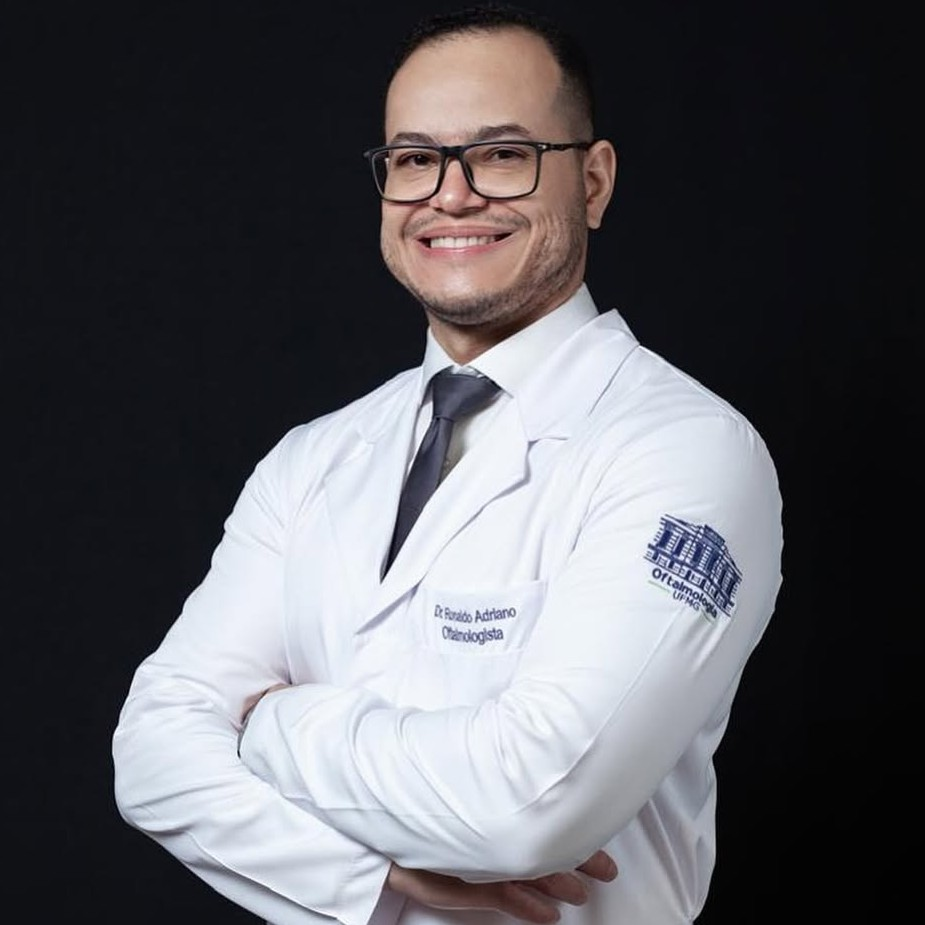
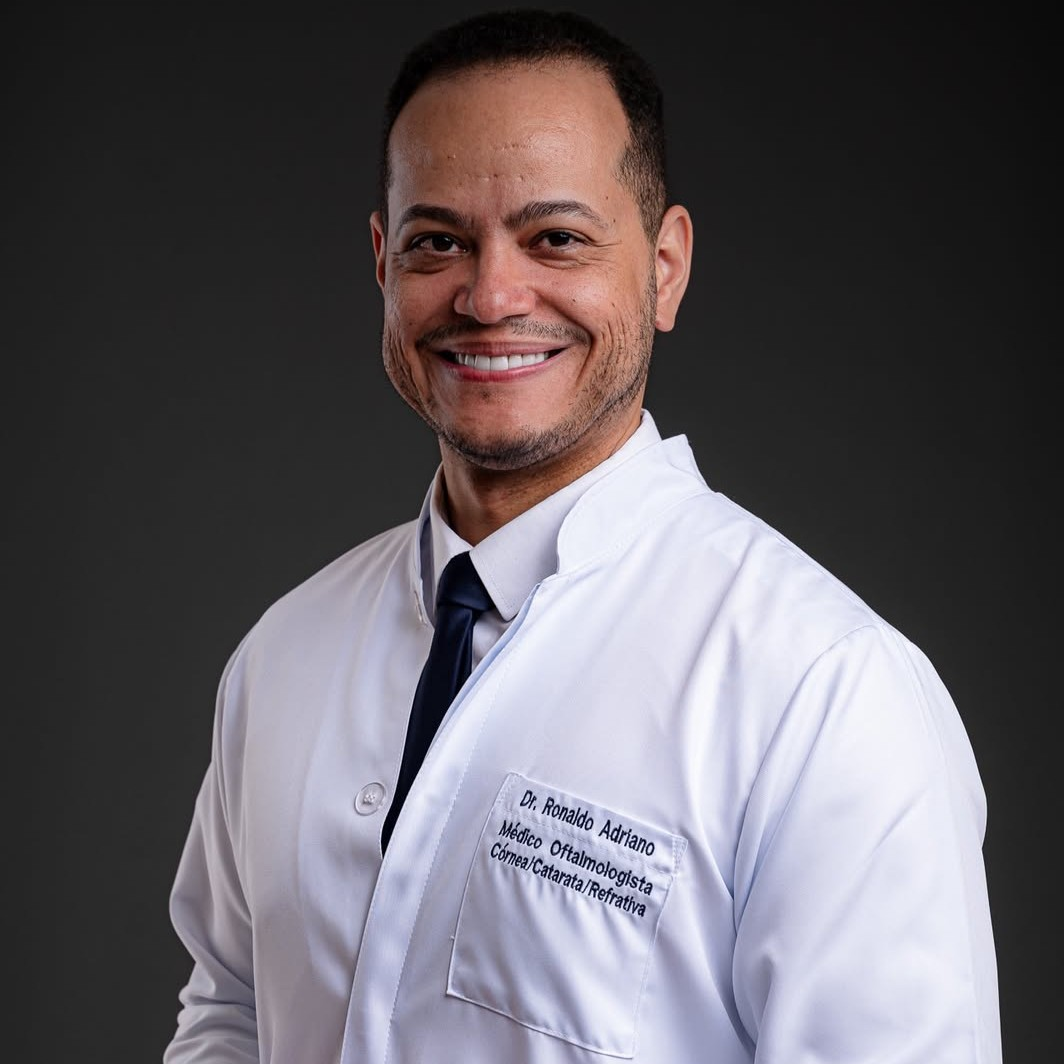
8 commit

diff --git a/index.html b/index.html
@@ -332,25 +332,40 @@
     /* ── CONVÊNIOS ── */
     .convenios-grid {
       display: grid;
-      grid-template-columns: repeat(6, 1fr);
-      gap: 16px;
-      margin-top: 40px;
+  grid-template-columns: repeat(4, 1fr);
+  gap: 20px;
+  margin-top: 40px;
     }
     @media (max-width: 900px) { .convenios-grid { grid-template-columns: repeat(2, 1fr); } }
     @media (max-width: 500px) { .convenios-grid { grid-template-columns: repeat(2, 1fr); } }
-    .convenio-card { width:150px;
-    height:150px;
+    .convenio-card {
+ border: 1px solid #e5e7eb;
+  border-radius: 12px;
+  padding: 16px 10px 10px;
+  display: flex;
+  flex-direction: column;
+  align-items: center;
+  justify-content: center;
+  gap: 12px;
+  transition: all .25s;
+    aspect-ratio: 1 / 1;
 
-    border:1px solid #e5e7eb;
-    border-radius:12px;
+}
 
-    padding:10px;
+ .convenio-label {
+  background: #0a1628;
+  border: 1px solid rgba(255, 255, 255, 0.1);
+  border-radius: 100px;
+  padding: 5px 14px;
+  color: #ffffff !important;
+  font-size: 14px;
+  font-weight: 500;
+  text-align: center;
+  white-space: nowrap;
+  width: 100%;
+}
 
-    display:flex;
-    align-items:center;
-    justify-content:center;
-    }
-    .convenio-card:hover { border-color: var(--accent); box-shadow: var(--shadow); transform: translateY(-4px); }
+       .convenio-card:hover { border-color: var(--accent); box-shadow: var(--shadow); transform: translateY(-4px); }
     .convenio-card .conv-icon { font-size: 22px; }
     .payment-title{
     text-align:center;
@@ -361,9 +376,10 @@
     }
 
     .convenio-card img{
-    width:100%;
-    height:100%;
-    object-fit:contain;
+   width: 100%;
+  height: 70%;
+  object-fit: contain;
+  transition: transform .2s;
     }
 
     .convenio-card:hover img{
@@ -721,13 +737,13 @@
     <div class="section-divider reveal"></div>
     <div class="specs-grid">
       <div class="spec-card reveal"><div class="icon">👁</div><h3>Catarata</h3><p>Diagnóstico, acompanhamento e cirurgia de catarata com tecnologia avançada e alta segurança para o paciente.</p></div>
-      <div class="spec-card reveal"><div class="icon">🔴</div><h3>Retina</h3><p>Tratamento especializado de doenças da retina, incluindo retinopatia diabética, DMRI e descolamento de retina.</p></div>
-      <div class="spec-card reveal"><div class="icon">🔵</div><h3>Córnea</h3><p>Avaliação e tratamento das doenças da córnea, ceratocone, úlceras e transplantes de córnea.</p></div>
+      <div class="spec-card reveal"><div class="icon">👁</div><h3>Retina</h3><p>Tratamento especializado de doenças da retina, incluindo retinopatia diabética, DMRI e descolamento de retina.</p></div>
+      <div class="spec-card reveal"><div class="icon">👁</div><h3>Córnea</h3><p>Avaliação e tratamento das doenças da córnea, cirurgia refrativa, ceratocone, úlceras e transplantes de córnea.</p></div>
+      <div class="spec-card reveal"><div class="icon">👁</div><h3>Glaucoma</h3><p>Monitoramento, diagnóstico precoce e tratamento do glaucoma para preservar a saúde do nervo óptico.</p></div>
       <div class="spec-card reveal"><div class="icon">🩺</div><h3>Consulta Oftalmológica</h3><p>Avaliação completa da saúde ocular, correção visual, prescrição de óculos e lentes de contato para todas as idades.</p></div>
-      <div class="spec-card reveal"><div class="icon">🟢</div><h3>Glaucoma</h3><p>Monitoramento, diagnóstico precoce e tratamento do glaucoma para preservar a saúde do nervo óptico.</p></div>
       <div class="spec-card reveal">
         <div class="icon">📊</div><h3>Exames Especializados</h3><p>Exames diagnósticos de alta precisão para avaliação detalhada da saúde ocular.</p>
-        <ul class="sub-list"><li>Mapeamento de Retina</li><li>OCT (Tomografia de Coerência Óptica)</li><li>Topografia de Córnea</li><li>Campo Visual</li><li>Paquimetria e Biometria</li></ul>
+        <ul class="sub-list"><li>Mapeamento de Retina</li><li>OCT (Tomografia de Coerência Óptica)</li><li>Topografia de Córnea</li><li>Campo Visual</li><li>Pentacam</li><li>Paquimetria e Biometria</li></ul>
       </div>
     </div>
   </div>
@@ -766,40 +782,45 @@
 
     <div class="convenio-card reveal">
       <img src="img/convenios/bradesco-saude.webp" alt="Bradesco Saúde">
+      <span class="convenio-label">Bradesco Saúde</span>
     </div>
 
     <div class="convenio-card reveal">
       <img src="img/convenios/cassi.webp" alt="CASSI">
+      <span class="convenio-label">Cassi</span>
+    </div>
+
+    <div class="convenio-card reveal">
+      <img src="img/convenios/medprev.webp" alt="MedPrev">
+      <span class="convenio-label">MedPrev</span>
     </div>
 
     <div class="convenio-card reveal">
       <img src="img/convenios/sanitas.webp" alt="Sanitas">
+      <span class="convenio-label">Sanitas</span>
     </div>
+
 
     <div class="convenio-card reveal">
       <img src="img/convenios/camed.webp" alt="Camed">
+      <span class="convenio-label">Camed</span>
     </div>
-
-    <div class="convenio-card reveal">
-      <img src="img/convenios/medpless.webp" alt="Medpless">
-    </div>
-
+    
     <div class="convenio-card reveal">
       <img src="img/convenios/fusex.webp" alt="FUSEX">
+      <span class="convenio-label">FUSEX</span>
     </div>
 
     <div class="convenio-card reveal">
       <img src="img/convenios/geap.webp" alt="GEAP Saúde">
+      <span class="convenio-label">GEAP Saúde</span>
     </div>
 
     <div class="convenio-card reveal">
-      <img src="img/convenios/capesesp.webp" alt="CAPESEP">
+      <img src="img/convenios/capesesp.webp" alt="CAPESESP">
+      <span class="convenio-label">CAPESESP</span>
     </div>
-
-    <div class="convenio-card reveal">
-      <img src="img/convenios/medisaude.webp" alt="MediSaúde">
-    </div>
-
+    
   </div>
   <h3 class="payment-title reveal">
   Formas de Pagamento
@@ -809,22 +830,26 @@
 
   <div class="convenio-card reveal">
     <img src="img/pagamento/pix.webp" alt="PIX">
+    <span class="convenio-label">PIX</span>
   </div>
 
   <div class="convenio-card reveal">
     <img src="img/pagamento/cartao-debito.webp" alt="Cartão de Débito">
+    <span class="convenio-label">Cartão de Débito</span>
   </div>
 
   <div class="convenio-card reveal">
     <img src="img/pagamento/cartao-credito.webp" alt="Cartão de Crédito">
+    <span class="convenio-label">Cartão de Crédito</span>
   </div>
 
   <div class="convenio-card reveal">
     <img src="img/pagamento/dinheiro.webp" alt="Dinheiro">
+    <span class="convenio-label">Dinheiro</span>
   </div>
 
   </div>
-    <p class="convenio-note reveal">⚠ Consulte nossa equipe para confirmar a cobertura do seu convênio: <strong>(77) 99853-6323</strong></p>
+    <p class="convenio-note reveal">⚠ Consulte nossa equipe para confirmar a cobertura do seu convênio: <a href="https://wa.me/5577998536323?text=Ol%C3%A1%21%20Encontrei%20voc%C3%AAs%20pelo%20site%20e%20gostaria%20de%20saber%20se%20aceitam%20meu%20Conv%C3%AAnio." target="_blank" rel="noopener noreferrer" style="color: #25D366; font-weight: 600; text-decoration: none;"><strong>(77) 99853-6323</strong></a></p>
   </div>
 </section>
 
@@ -836,10 +861,10 @@
     <div class="section-divider reveal"></div>
     <div class="reviews-carousel reveal">
       <div class="reviews-track" id="reviewsTrack">
-        <div class="review-card"><div class="review-stars">★★★★★</div><p class="review-text">"Atendimento excepcional desde o agendamento até a consulta. O Dr. Samuel é muito atencioso e explicou tudo com clareza. Recomendo de olhos fechados!"</p><div class="review-author">Maria L.</div><div class="review-source">Google · Luís Eduardo Magalhães</div></div>
-        <div class="review-card"><div class="review-stars">★★★★★</div><p class="review-text">"Fiz minha cirurgia de catarata com o Dr. Ronaldo e o resultado foi incrível. Equipe muito preparada, estrutura moderna e atendimento humanizado."</p><div class="review-author">João B.</div><div class="review-source">Google · Paciente</div></div>
-        <div class="review-card"><div class="review-stars">★★★★★</div><p class="review-text">"Clínica de alto nível em Luís Eduardo Magalhães. Fiz mapeamento de retina e o atendimento foi muito profissional. Voltarei sempre que precisar."</p><div class="review-author">Ana P.</div><div class="review-source">Google · Barreiras/BA</div></div>
-        <div class="review-card"><div class="review-stars">★★★★★</div><p class="review-text">"Minha mãe foi atendida com todo o cuidado e carinho que ela merecia. Os médicos são extremamente capacitados. Gratidão pela excelência no atendimento!"</p><div class="review-author">Fernanda S.</div><div class="review-source">Google · Paciente</div></div>
+        <div class="review-card"><div class="review-stars">★★★★★</div><p class="review-text">"Ótima experiência. O Dr. Samuel demonstrou conhecimento, paciência e cuidado durante toda a consulta. Todas as minhas dúvidas foram esclarecidas e recebi orientações claras para o meu acompanhamento."</p><div class="review-author">Patricia S.</div><div class="review-source">Google</div></div>
+        <div class="review-card"><div class="review-stars">★★★★★</div><p class="review-text">"Gostaria de registrar minha ótima experiência na clínica. E também parabenizar a equipe pelo excelente trabalho e recomendo a clínica para quem busca um atendimento oftalmológico de qualidade."</p><div class="review-author">Tati R.</div><div class="review-source">Google</div></div>
+        <div class="review-card"><div class="review-stars">★★★★★</div><p class="review-text">"Melhores profissionais e a melhor clínica do oeste baiano!"</p><div class="review-author">Luh S.</div><div class="review-source">Google</div></div>
+        <div class="review-card"><div class="review-stars">★★★★★</div><p class="review-text">"Excelente atendimento. Todas as queixas atendidas , imediatamente."</p><div class="review-author">Gervásio B.</div><div class="review-source">Google</div></div>
       </div>
       <div class="carousel-controls">
         <button class="carousel-btn" id="prevBtn">←</button>
@@ -868,7 +893,7 @@
         </div>
         <div class="form-group">
           <label>Convênio</label>
-          <select id="fconv"><option value="">Selecione...</option><option>Particular</option><option>Bradesco Saúde</option><option>Cassi</option><option>Sanitas</option><option>Camed</option><option>Medpless</option><option>Fusex</option><option>Geap</option><option>Capesesp</option><option>MediSaúde</option></select>
+          <select id="fconv"><option value="">Selecione...</option><option>Particular</option><option>Bradesco Saúde</option><option>Cassi</option><option>MedPrev</option><option>Sanitas</option><option>Camed</option><option>Medpless</option><option>FUSEX</option><option>GEAP Saúde</option><option>CAPESESP</option></select>
         </div>
       </div>
       <div class="form-row reveal">
